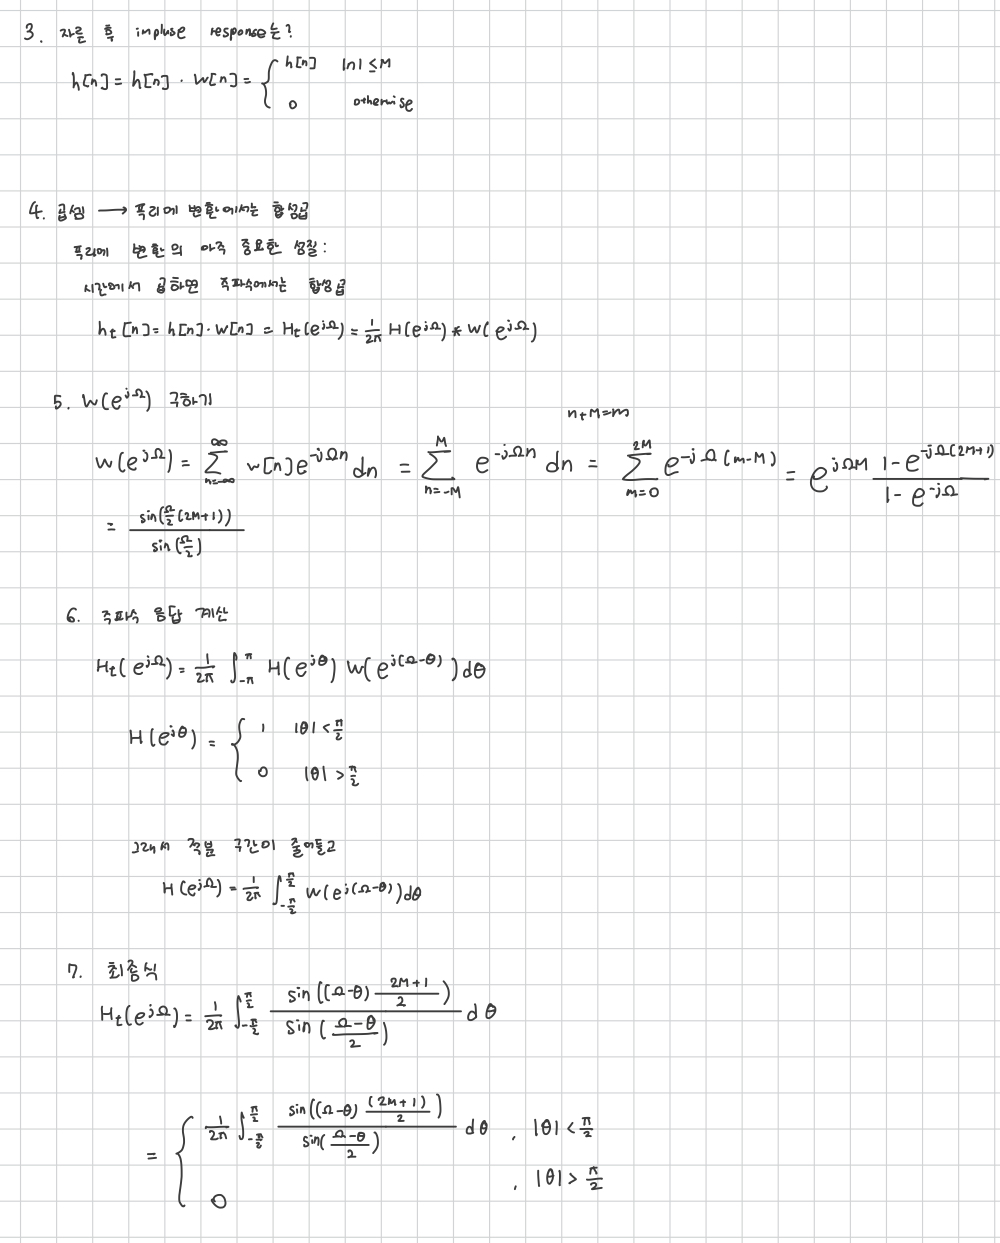
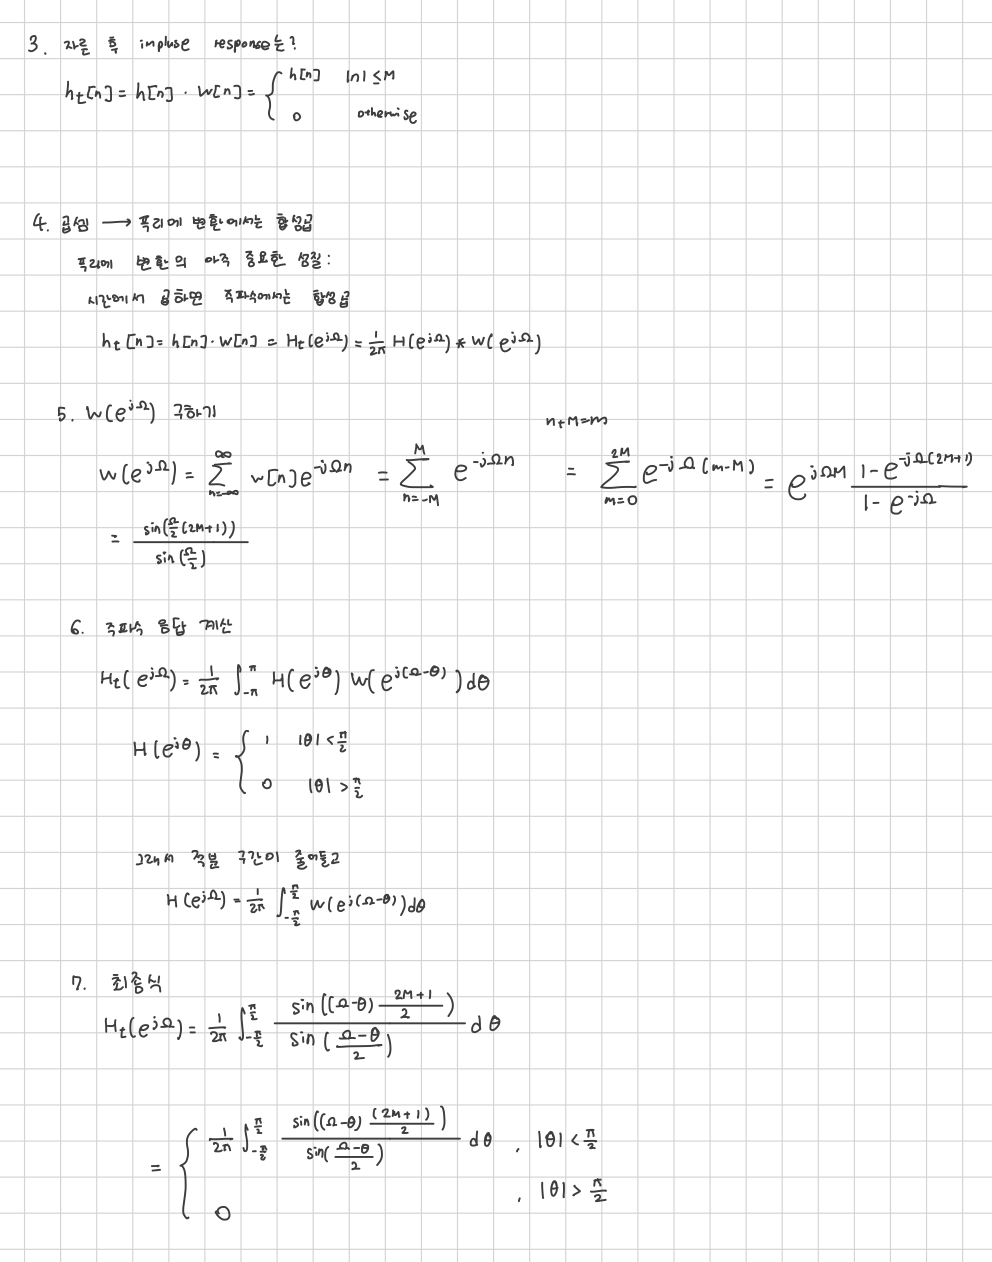
오타 수정

Changed region(s): [[0.0, 0.0, 1.0, 0.642], [0.0, 0.6726, 1.0, 1.0]]

diff --git a/_posts/category-Singals-and-Systems/2025-04-08-3장 Fourier Representations of Singals and LTI Systems.md b/_posts/category-Singals-and-Systems/2025-04-08-3장 Fourier Representations of Singals and LTI Systems.md
@@ -1049,7 +1049,7 @@ Inverse DTFT(이산 시간)
 
 &ensp;결론<br/>
 
-<p align="center">$\int_{-\infty }^{\infty } \left | x(t)\right |^2 dt = \frac{1}{2\pi }{\int_{-\infty }^{\infty }}\left | x(t)\right |^2 dt$ </p>
+<p align="center">$\int_{-\infty }^{\infty } \left | x(t)\right |^2 dt = \frac{1}{2\pi }{\int_{-\infty }^{\infty }}\left | x(jw)\right |^2 dw$ </p>
 
 &ensp;Parseval's Relationship 표<br/>
 <p align="center"><img src="/assets/img/Singals and Systems/3장 Fourier Representation of Singals and LTI Systems/3-150.png" width="600"></p>

diff --git a/_posts/category-Operating-System/2025-06-10-chapter14. File System Implementation.md b/_posts/category-Operating-System/2025-06-10-chapter14. File System Implementation.md
@@ -237,4 +237,3 @@ last_modified_at: 2025-06-10
 * 실제로 접근할 블록: 시작 주소 + Q
 
 <p align="center"><img src="/assets/img/Operating System/14. File System Implementation/14-8.png" width="600"></p>
-
